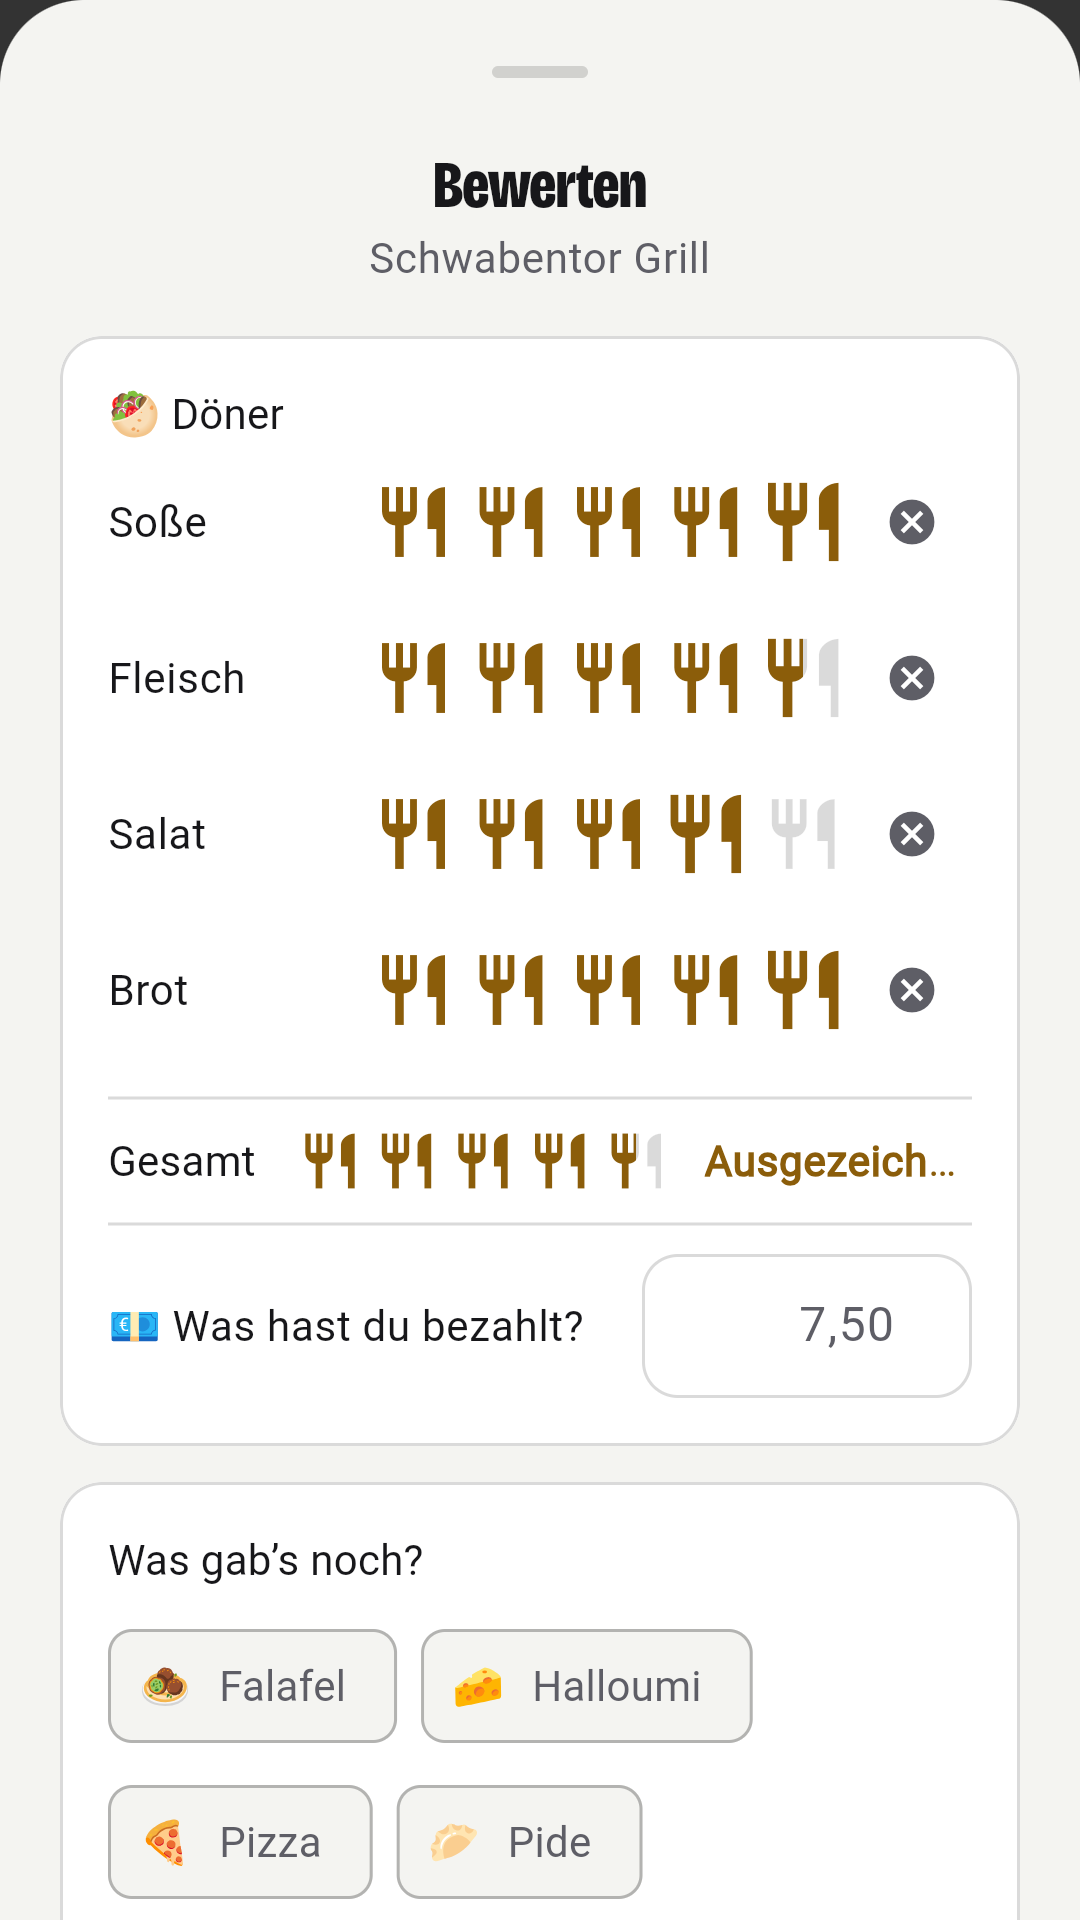
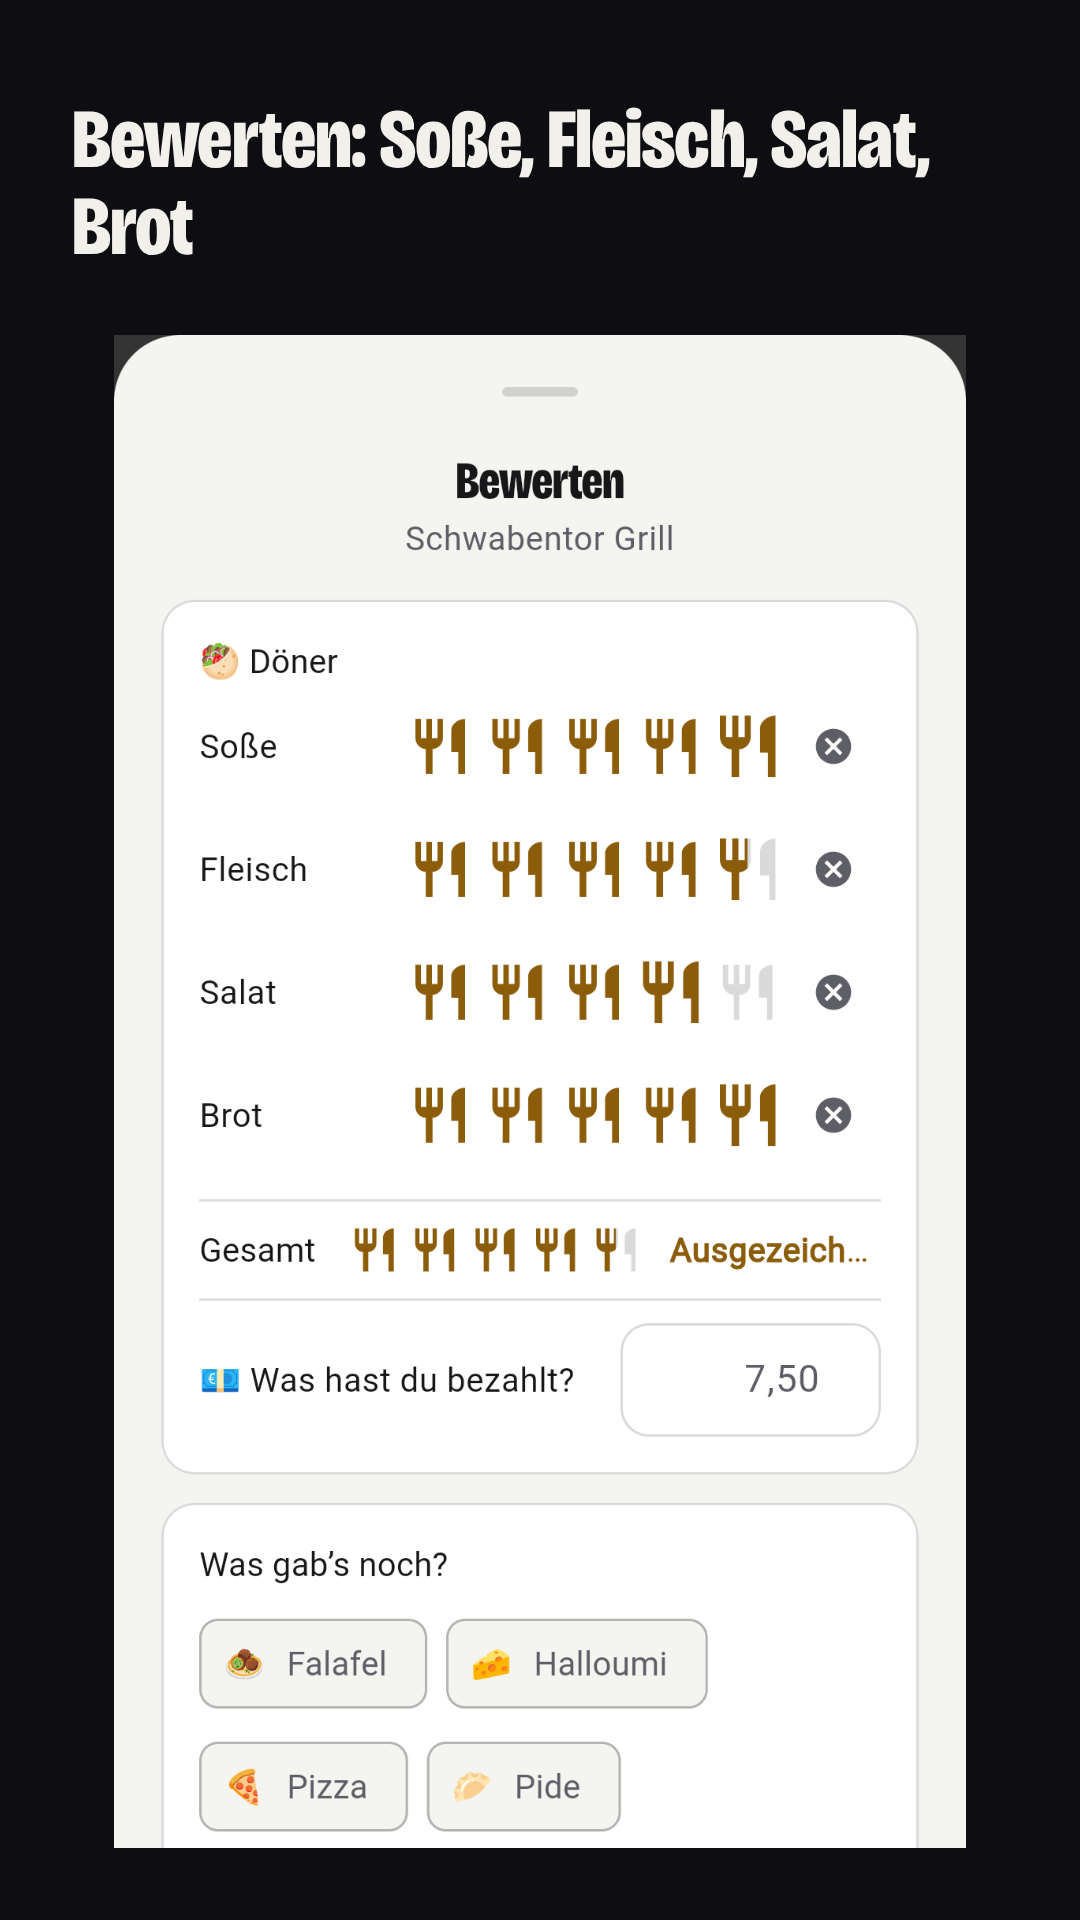
feat(app,store): clearer empty states and scriptable store screenshots
The friends feed without activity offers to invite friends, and the
friends list explains how to get some. Store screenshots get their
headline per picture from tool/store-screenshots.mjs over raw screens
in docs/play/raw, so the redesign only needs new raw pictures and one
command. Upload waits for the redesign release.

diff --git a/app/lib/src/features/start/start_screen.dart b/app/lib/src/features/start/start_screen.dart
@@ -365,12 +365,24 @@ class _StartScreenState extends State<StartScreen> {
               else if (_items.isEmpty)
                 Padding(
                   padding: const EdgeInsets.symmetric(vertical: 16),
-                  child: Text(
-                    _friendsOnly
-                        ? 'Deine Freunde haben noch nichts eingecheckt oder bewertet.'
-                        : 'In deiner Gegend hat noch niemand bewertet. Fang du an!',
-                    textAlign: TextAlign.center,
-                    style: TextStyle(color: Theme.of(context).colorScheme.outline),
+                  child: Column(
+                    children: [
+                      Text(
+                        _friendsOnly
+                            ? 'Deine Freunde haben noch nichts eingecheckt oder bewertet.'
+                            : 'In deiner Gegend hat noch niemand bewertet. Fang du an!',
+                        textAlign: TextAlign.center,
+                        style: TextStyle(color: Theme.of(context).colorScheme.outline),
+                      ),
+                      if (_friendsOnly) ...[
+                        const SizedBox(height: 12),
+                        FilledButton.icon(
+                          icon: const Icon(Icons.group_add),
+                          label: const Text('Freunde einladen'),
+                          onPressed: () => showAppSheet(context, (_) => const InviteSheet()),
+                        ),
+                      ],
+                    ],
                   ),
                 ),
               const GoogleAttribution(),

diff --git a/app/lib/src/features/social/friends.dart b/app/lib/src/features/social/friends.dart
@@ -167,7 +167,13 @@ class _FriendsScreenState extends State<FriendsScreen> {
                 ),
             ],
             header('Freunde (${friends.accepted.length})'),
-            if (friends.accepted.isEmpty) const ListTile(title: Text('Noch keine Freunde')),
+            if (friends.accepted.isEmpty)
+              ListTile(
+                leading: const CircleAvatar(child: Icon(Icons.person_outline)),
+                title: const Text('Noch keine Freunde'),
+                subtitle: const Text('Lade welche ein, dann seht ihr gegenseitig, wo ihr esst.'),
+                onTap: () => showAppSheet(context, (_) => const InviteSheet()),
+              ),
             for (final f in friends.accepted)
               ListTile(
                 leading: const CircleAvatar(child: Icon(Icons.person)),

diff --git a/README.md b/README.md
@@ -468,7 +468,7 @@ Robins Entscheidung vom 09.11.2026: Der neue Name Lieblingsdöner geht erst mit 
 
 1. Look: Workshop mit der Designerin in der Design-Werkstatt (Farben, Radien, eventuell Icon und Wortmarke), danach die Werte fest einbauen.
 2. Aufbau: Erst danach Mockups für den größeren Umbau („Start als Aktionsfläche“), schon im neuen Look, Bau nach Robins Freigabe.
-3. Ausliefern: Store-Screenshots neu, Store-Name „Lieblingsdöner“ in App Store Connect und Play, dann der Release-Tag.
+3. Ausliefern: Store-Screenshots neu, Store-Name „Lieblingsdöner“ in App Store Connect und Play, dann der Release-Tag. Die Store-Screenshots entstehen per Skript: rohe Handy-Screens nach `docs/play/raw/` (1080 breit, `1-karte` … `6-freunde`), dann `npm install --no-save --prefix tool playwright && node tool/store-screenshots.mjs` setzt die Überschriften dazu und schreibt `docs/play/de`. Hochgeladen wird erst mit diesem Release.
 
 ### Leitlinie
 
